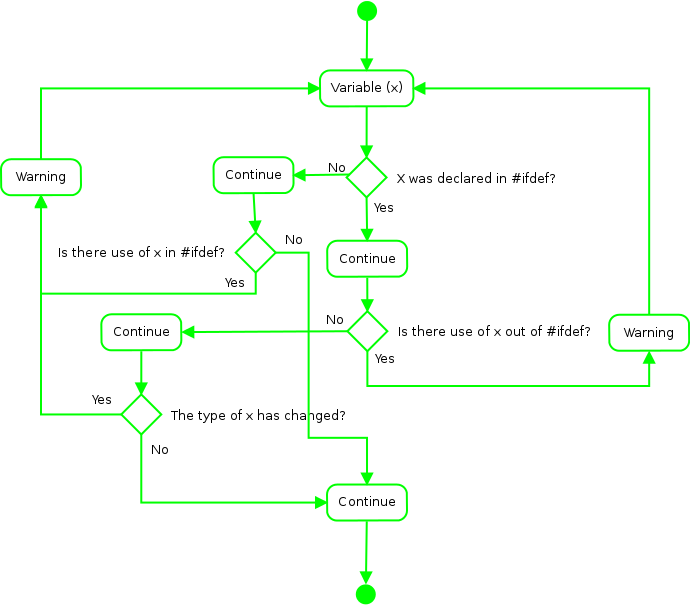
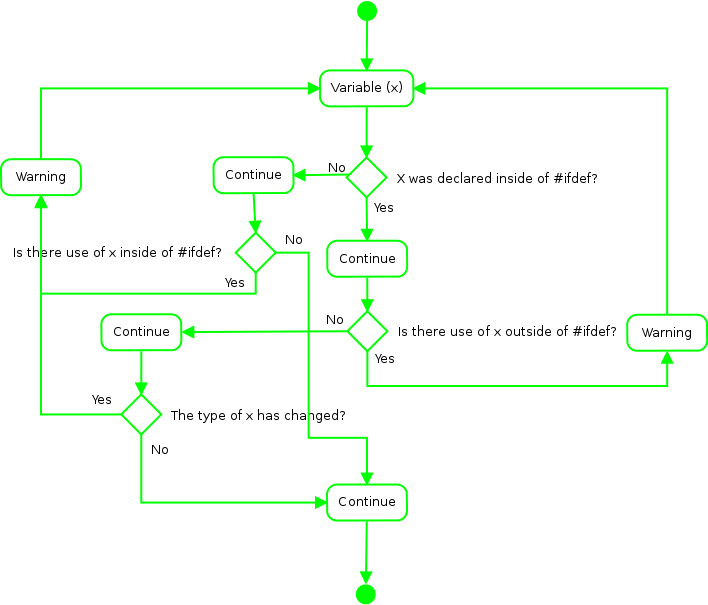
update images

diff --git a/guidelines.html b/guidelines.html
@@ -53,8 +53,8 @@
 	    <li class="text-warning"><strong>Bug #4:</strong> function(void) <-> function(int)</li>
 	    <li class="text-danger"><strong>Bug #5:</strong> function() <-> function(3)</li>
 	    <li class="text-primary"><strong>Bug #6:</strong> #ifdef A int x; #endif <-> #ifdef B function(x) #endif</li>
-	    <li class="text-success"><strong>Bug #7:</strong> #ifdef A int x #endif <-> #ifdef B char x; #endif</li>
-	    <li class="text-info"><strong>Bug #8:</strong> #ifdef A x = 3; #endif <-> #ifdef B x = 4; #endif</li>
+	    <li class="text-success"><strong>Bug #7:</strong> #ifdef A x = 3; #endif <-> #ifdef B x = 4; #endif</li>
+	    <li class="text-info"><strong>Bug #8:</strong> function(x) <-> function(x, y)</li>
 	    <li class="text-warning"><strong>Bug #9:</strong> #ifdef A function(void) #endif <-> #ifdef B function(int) #endif</li>
 	    <li class="text-danger"><strong>Bug #10:</strong> #ifdef A function() #endif <-> #ifdef B function(3) #endif</li>	    
 	  </ul>	  
@@ -230,10 +230,10 @@
 	    </div>
 	    <div id="bug8" class="panel-collapse collapse">
 	      <div class="panel-body">		
-		<img alt="bug8" src="assets/guidelines/guideline6.png" width="1330" heigth="693">
+		<img alt="bug8" src="assets/guidelines/guideline8.png" width="1330" heigth="693">
 		<ol>
 		  <li>
-		    <a href="#" target="_blank">#</a>
+		    <a href="https://www.libreoffice.org/bugzilla/show_bug.cgi?id=2245" target="_blank">https://www.libreoffice.org/bugzilla/show_bug.cgi?id=2245</a>
 		  </li>
 		</ol>
 	      </div>
